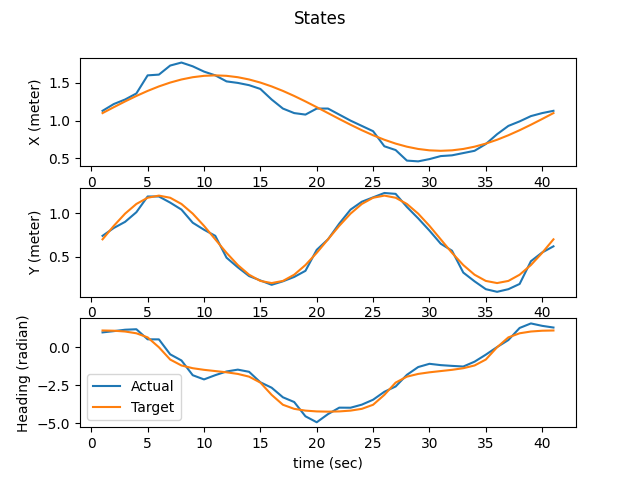
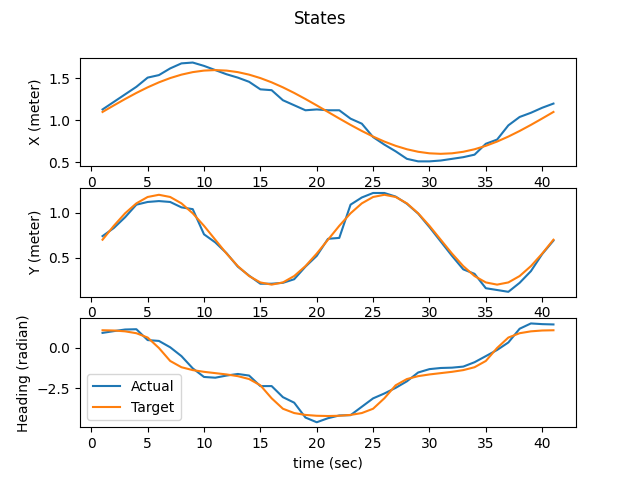
-

diff --git a/Project/Infinity/infinity_tracking_pwm.py b/Project/Infinity/infinity_tracking_pwm.py
@@ -66,9 +66,9 @@ theta_target=np.unwrap( atan2(2*pi*cos((pi*t_tra)/10), pi*cos((pi*t_tra)/20)) );
 #============================================================Sytem variables========================================================================================================================
 # setting matrix_weights' variables
 
-Q_x = 8000000000000000000000
-Q_y = 8000000000000000000000
-Q_theta = 5000000000000
+Q_x = 80000000000000000000000000
+Q_y = 80000000000000000000000000
+Q_theta = 500000000000000
 R1 = 0.1
 R2 = 0.01
 
